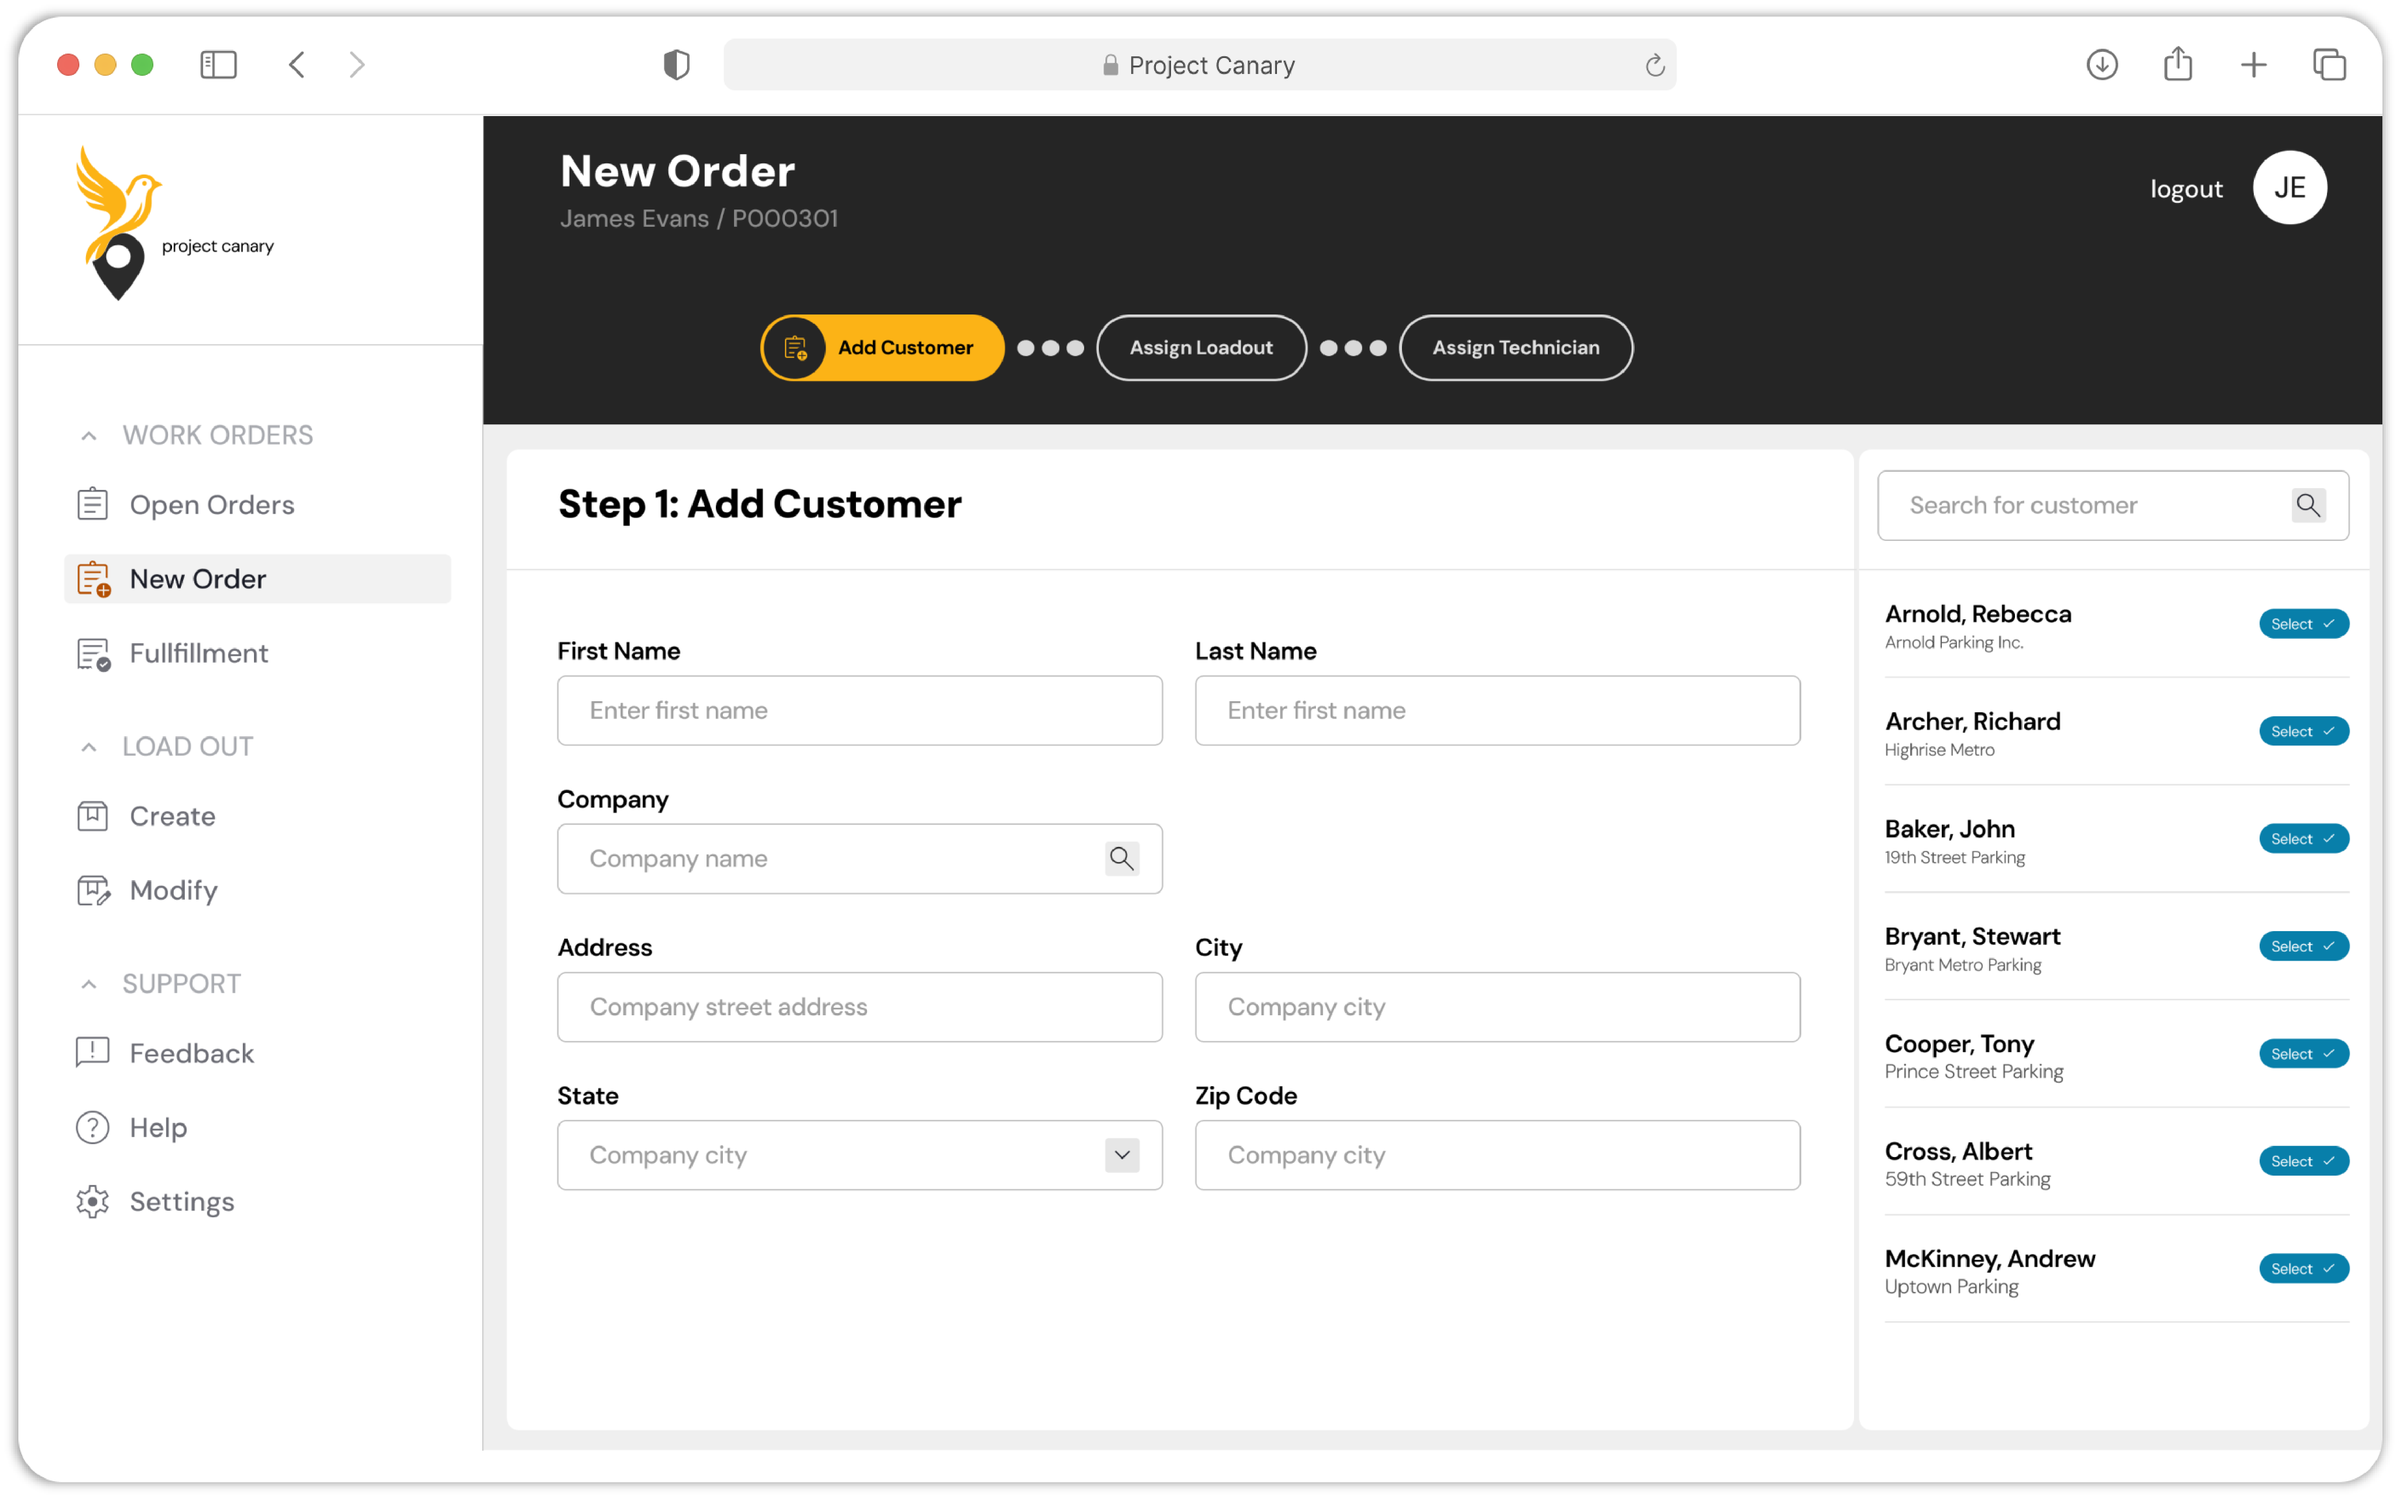
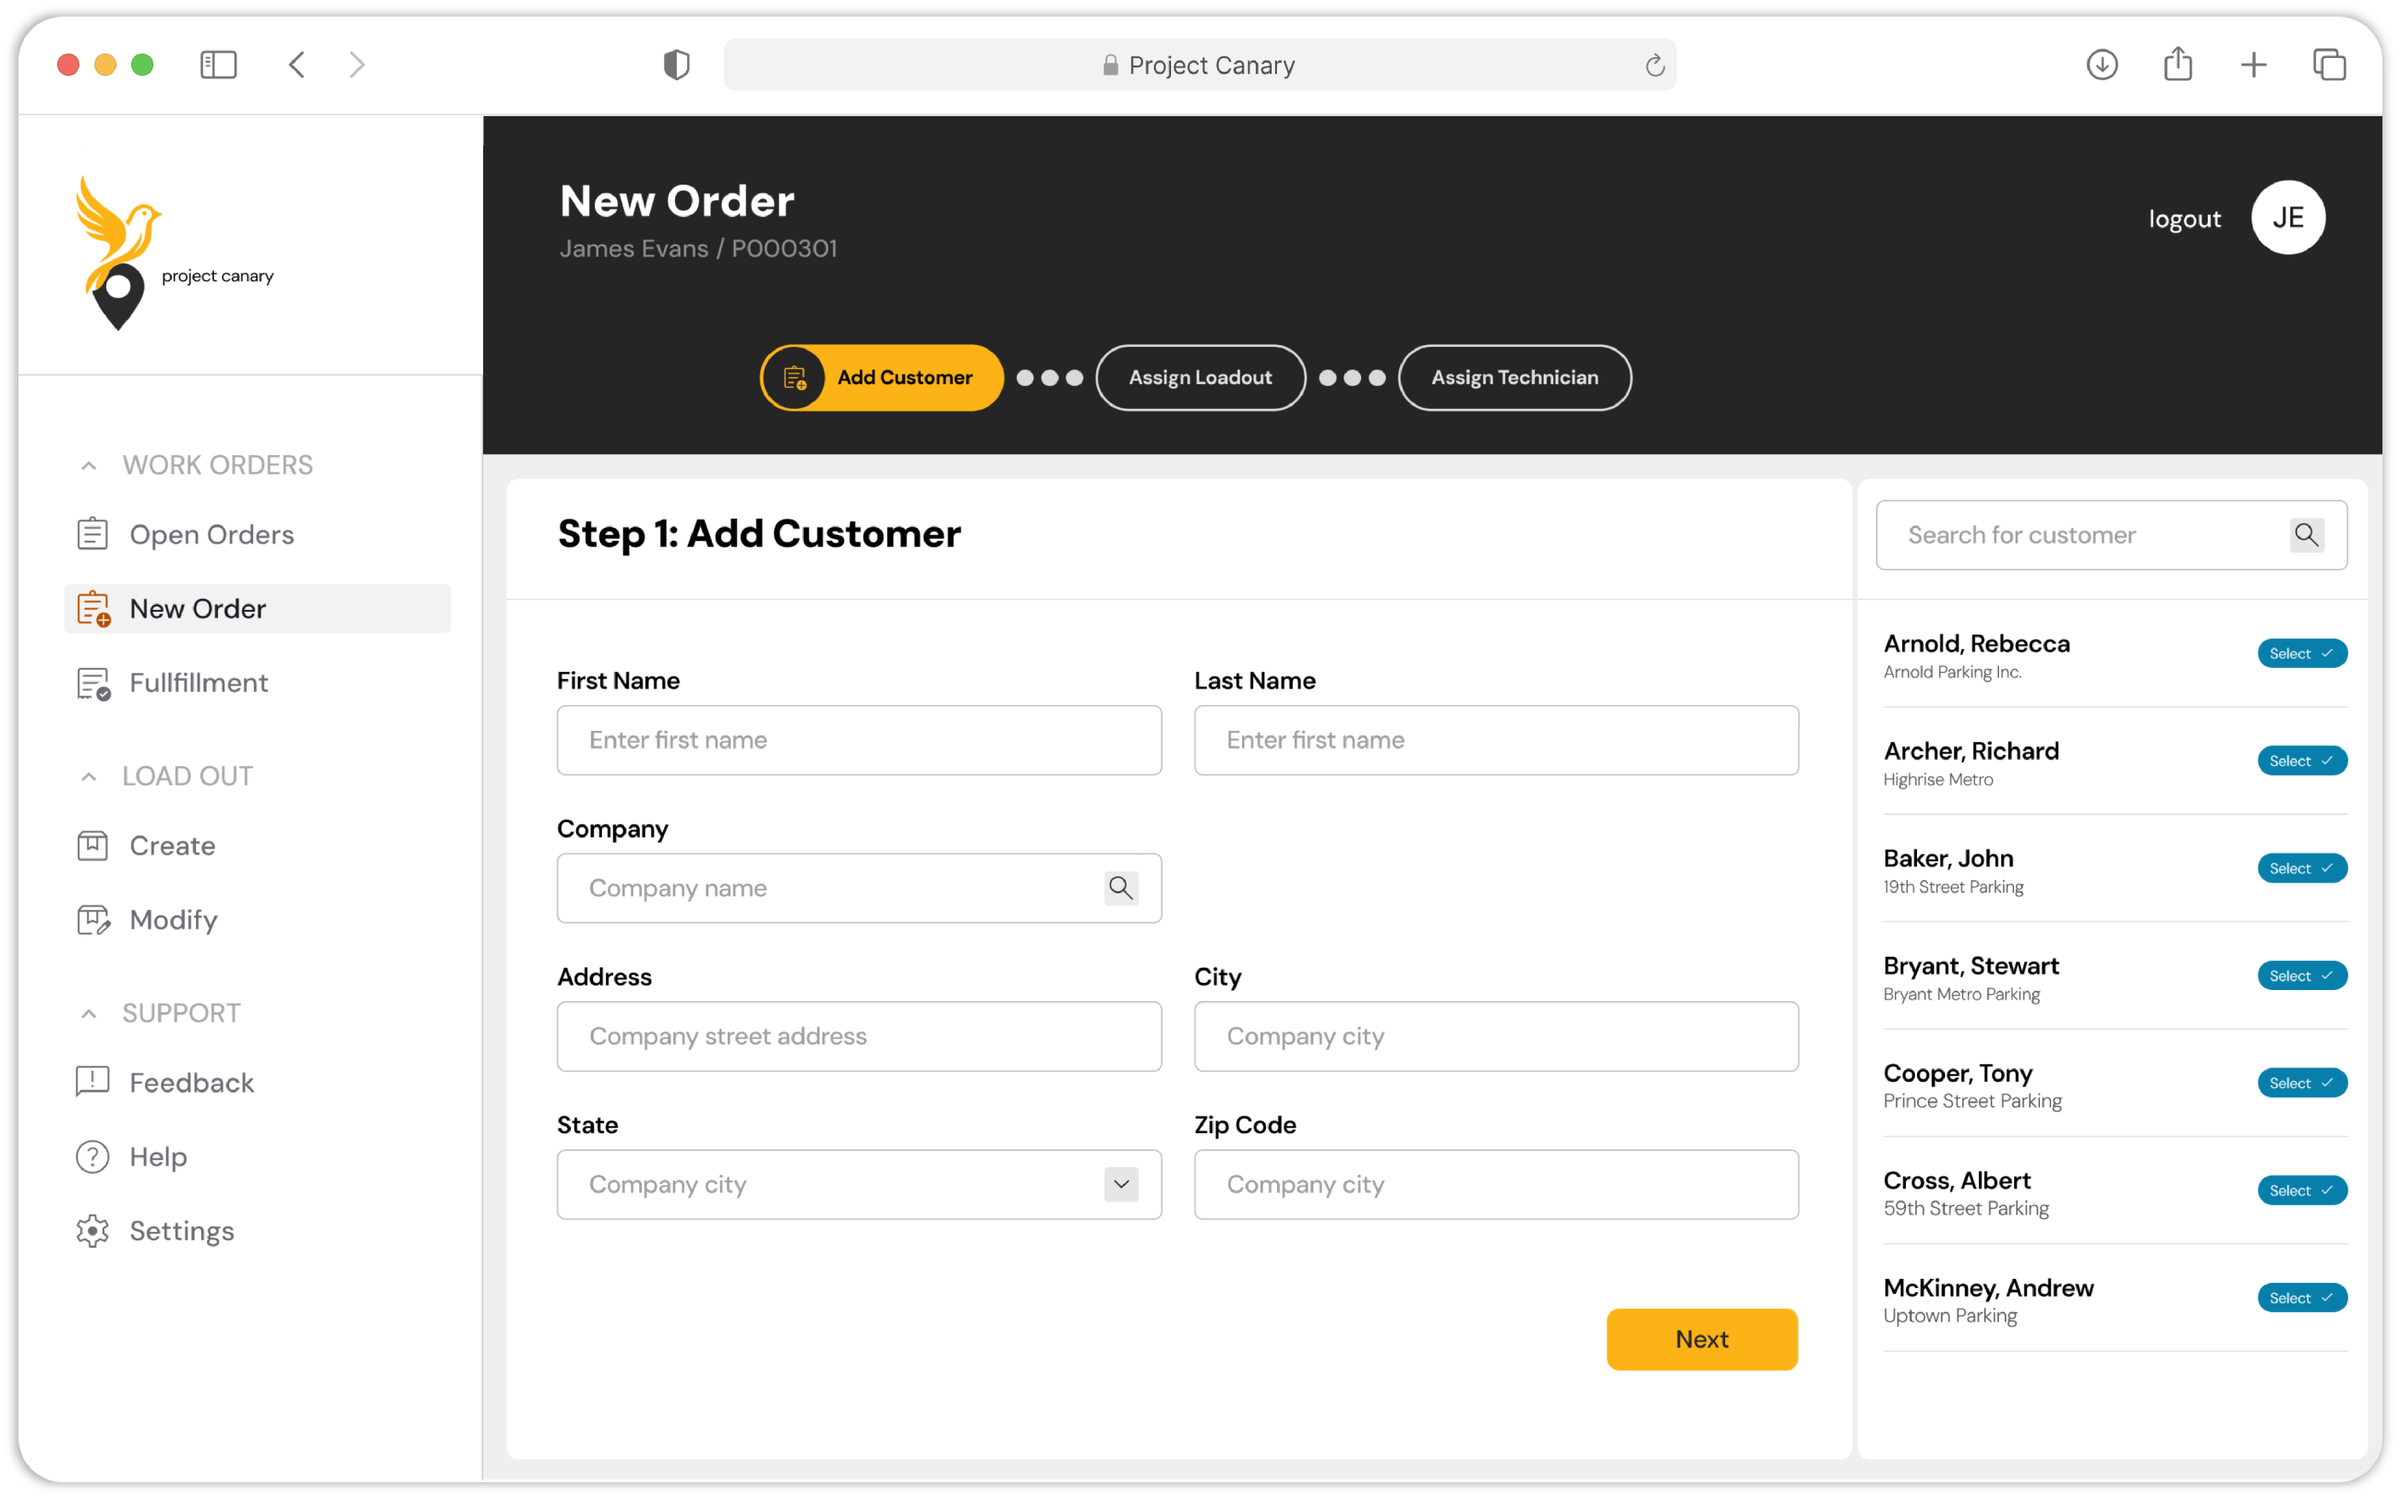
Update portfolio site

diff --git a/js/runtime.1f1b973c.js b/js/runtime.1f1b973c.js
@@ -1,0 +1,1 @@
+!function(){"use strict";var e,n,t,r={},o={};function i(e){var n=o[e];if(void 0!==n)return n.exports;var t=o[e]={exports:{}};return r[e].call(t.exports,t,t.exports,i),t.exports}i.m=r,e=[],i.O=function(n,t,r,o){if(!t){var u=1/0;for(l=0;l<e.length;l++){t=e[l][0],r=e[l][1],o=e[l][2];for(var a=!0,f=0;f<t.length;f++)1&o&&!(u>=o)||!Object.keys(i.O).every(function(e){return i.O[e](t[f])})?(a=!1,o<u&&(u=o)):t.splice(f--,1);if(a){e.splice(l--,1);var c=r();void 0!==c&&(n=c)}}return n}o=o||0;for(var l=e.length;l>0&&e[l-1][2]>o;l--)e[l]=e[l-1];e[l]=[t,r,o]},i.n=function(e){var n=e&&e.__esModule?function(){return e.default}:function(){return e};return i.d(n,{a:n}),n},i.cw=function(e){var n;return function(){if(e){var t=e;e=0,n={exports:{}},t.call(n.exports,n,n.exports)}return n.exports}},i.d=function(e,n){for(var t in n)i.o(n,t)&&!i.o(e,t)&&Object.defineProperty(e,t,{enumerable:!0,get:n[t]})},i.f={},i.e=function(e){return Promise.all(Object.keys(i.f).reduce(function(n,t){return i.f[t](e,n),n},[]))},i.u=function(e){return"js/"+e+"."+{37:"85948125",50:"e0d3e093",271:"b4fd8086",352:"c32436e8",494:"9567a41c",594:"8fb20986",670:"a0699638",780:"6c8ce13d",880:"e7286557"}[e]+".js"},i.miniCssF=function(e){return"css/"+e+"."+{37:"84b6f297",50:"060fc73d",271:"acc216ad",352:"e67d27f5",494:"e2300835",594:"b4831c99",670:"f54f6222",780:"4fae1d28",880:"e940022b"}[e]+".css"},i.g=function(){if("object"==typeof globalThis)return globalThis;try{return this||new Function("return this")()}catch(e){if("object"==typeof window)return window}}(),i.o=function(e,n){return Object.prototype.hasOwnProperty.call(e,n)},n={},t="learning-vue-game:",i.l=function(e,r,o,u){if(n[e])n[e].push(r);else{var a,f;if(void 0!==o)for(var c=document.getElementsByTagName("script"),l=0;l<c.length;l++){var d=c[l];if(d.getAttribute("src")==e||d.getAttribute("data-webpack")==t+o){a=d;break}}a||(f=!0,(a=document.createElement("script")).charset="utf-8",i.nc&&a.setAttribute("nonce",i.nc),a.setAttribute("data-webpack",t+o),a.src=e),n[e]=[r];var s=function(t,r){a.onerror=a.onload=null,clearTimeout(p);var o=n[e];if(delete n[e],a.parentNode&&a.parentNode.removeChild(a),o&&o.forEach(function(e){return e(r)}),t)return t(r)},p=setTimeout(s.bind(null,void 0,{type:"timeout",target:a}),12e4);a.onerror=s.bind(null,a.onerror),a.onload=s.bind(null,a.onload),f&&document.head.appendChild(a)}},i.r=function(e){"undefined"!=typeof Symbol&&Symbol.toStringTag&&Object.defineProperty(e,Symbol.toStringTag,{value:"Module"}),Object.defineProperty(e,"__esModule",{value:!0})},i.p="/",function(){if("undefined"!=typeof document){var e={121:0};i.f.miniCss=function(n,t){e[n]?t.push(e[n]):0!==e[n]&&{37:1,50:1,271:1,352:1,494:1,594:1,670:1,780:1,880:1}[n]&&t.push(e[n]=function(e){return new Promise(function(n,t){var r=i.miniCssF(e),o=i.p+r;if(function(e,n){for(var t=document.getElementsByTagName("link"),r=0;r<t.length;r++){var o=(u=t[r]).getAttribute("data-href")||u.getAttribute("href");if("stylesheet"===u.rel&&(o===e||o===n))return u}var i=document.getElementsByTagName("style");for(r=0;r<i.length;r++){var u;if((o=(u=i[r]).getAttribute("data-href"))===e||o===n)return u}}(r,o))return n();!function(e,n,t,r,o){var u=document.createElement("link");u.rel="stylesheet",u.type="text/css",i.nc&&(u.nonce=i.nc),u.onerror=u.onload=function(t){if(u.onerror=u.onload=null,"load"===t.type)r();else{var i=t&&t.type,a=t&&t.target&&t.target.href||n,f=new Error("Loading CSS chunk "+e+" failed.\n("+i+": "+a+")");f.name="ChunkLoadError",f.code="CSS_CHUNK_LOAD_FAILED",f.type=i,f.request=a,u.parentNode&&u.parentNode.removeChild(u),o(f)}},u.href=n,document.head.appendChild(u)}(e,o,0,n,t)})}(n).then(function(){e[n]=0},function(t){throw delete e[n],t}))}}}(),function(){var e={121:0};i.f.j=function(n,t){var r=i.o(e,n)?e[n]:void 0;if(0!==r)if(r)t.push(r[2]);else if(121!=n){var o=new Promise(function(t,o){r=e[n]=[t,o]});t.push(r[2]=o);var u=new Error;i.l(i.p+i.u(n),function(t){if(i.o(e,n)&&(0!==(r=e[n])&&(e[n]=void 0),r)){var o=t&&("load"===t.type?"missing":t.type),a=t&&t.target&&t.target.src;u.message="Loading chunk "+n+" failed.\n("+o+": "+a+")",u.name="ChunkLoadError",u.type=o,u.request=a,u.event=t,r[1](u)}},"chunk-"+n,n)}else e[n]=0},i.O.j=function(n){return 0===e[n]};var n=function(n,t){var r,o,u=t[0],a=t[1],f=t[2],c=0;if(u.some(function(n){return 0!==e[n]})){for(r in a)i.o(a,r)&&(i.m[r]=a[r]);if(f)var l=f(i)}for(n&&n(t);c<u.length;c++)o=u[c],i.o(e,o)&&e[o]&&e[o][0](),e[o]=0;return i.O(l)},t=self.webpackChunklearning_vue_game=self.webpackChunklearning_vue_game||[];t.forEach(n.bind(null,0)),t.push=n.bind(null,t.push.bind(t))}()}();

diff --git a/404.html b/404.html
@@ -87,4 +87,4 @@
           transform: scale(1);
           opacity: 1;
         }
-      }</style><script defer="defer" src="/js/runtime.7452bb6c.js"></script><script defer="defer" src="/js/vendors.e2d5a371.js"></script><script defer="defer" src="/js/main.963531bd.js"></script><link href="/css/vendors.193c7ad3.css" rel="stylesheet"><link href="/css/main.96970ffc.css" rel="stylesheet"></head><body><div id="boot-splash" aria-hidden="true"><div class="boot-loader" role="status" aria-label="Loading"><span></span> <span></span> <span></span> <span></span></div></div><div id="app"></div></body></html>
+      }</style><script defer="defer" src="/js/runtime.1f1b973c.js"></script><script defer="defer" src="/js/vendors.e2d5a371.js"></script><script defer="defer" src="/js/main.963531bd.js"></script><link href="/css/vendors.193c7ad3.css" rel="stylesheet"><link href="/css/main.96970ffc.css" rel="stylesheet"></head><body><div id="boot-splash" aria-hidden="true"><div class="boot-loader" role="status" aria-label="Loading"><span></span> <span></span> <span></span> <span></span></div></div><div id="app"></div></body></html>

diff --git a/index.html b/index.html
@@ -87,4 +87,4 @@
           transform: scale(1);
           opacity: 1;
         }
-      }</style><script defer="defer" src="/js/runtime.7452bb6c.js"></script><script defer="defer" src="/js/vendors.e2d5a371.js"></script><script defer="defer" src="/js/main.963531bd.js"></script><link href="/css/vendors.193c7ad3.css" rel="stylesheet"><link href="/css/main.96970ffc.css" rel="stylesheet"></head><body><div id="boot-splash" aria-hidden="true"><div class="boot-loader" role="status" aria-label="Loading"><span></span> <span></span> <span></span> <span></span></div></div><div id="app"></div></body></html>
+      }</style><script defer="defer" src="/js/runtime.1f1b973c.js"></script><script defer="defer" src="/js/vendors.e2d5a371.js"></script><script defer="defer" src="/js/main.963531bd.js"></script><link href="/css/vendors.193c7ad3.css" rel="stylesheet"><link href="/css/main.96970ffc.css" rel="stylesheet"></head><body><div id="boot-splash" aria-hidden="true"><div class="boot-loader" role="status" aria-label="Loading"><span></span> <span></span> <span></span> <span></span></div></div><div id="app"></div></body></html>
